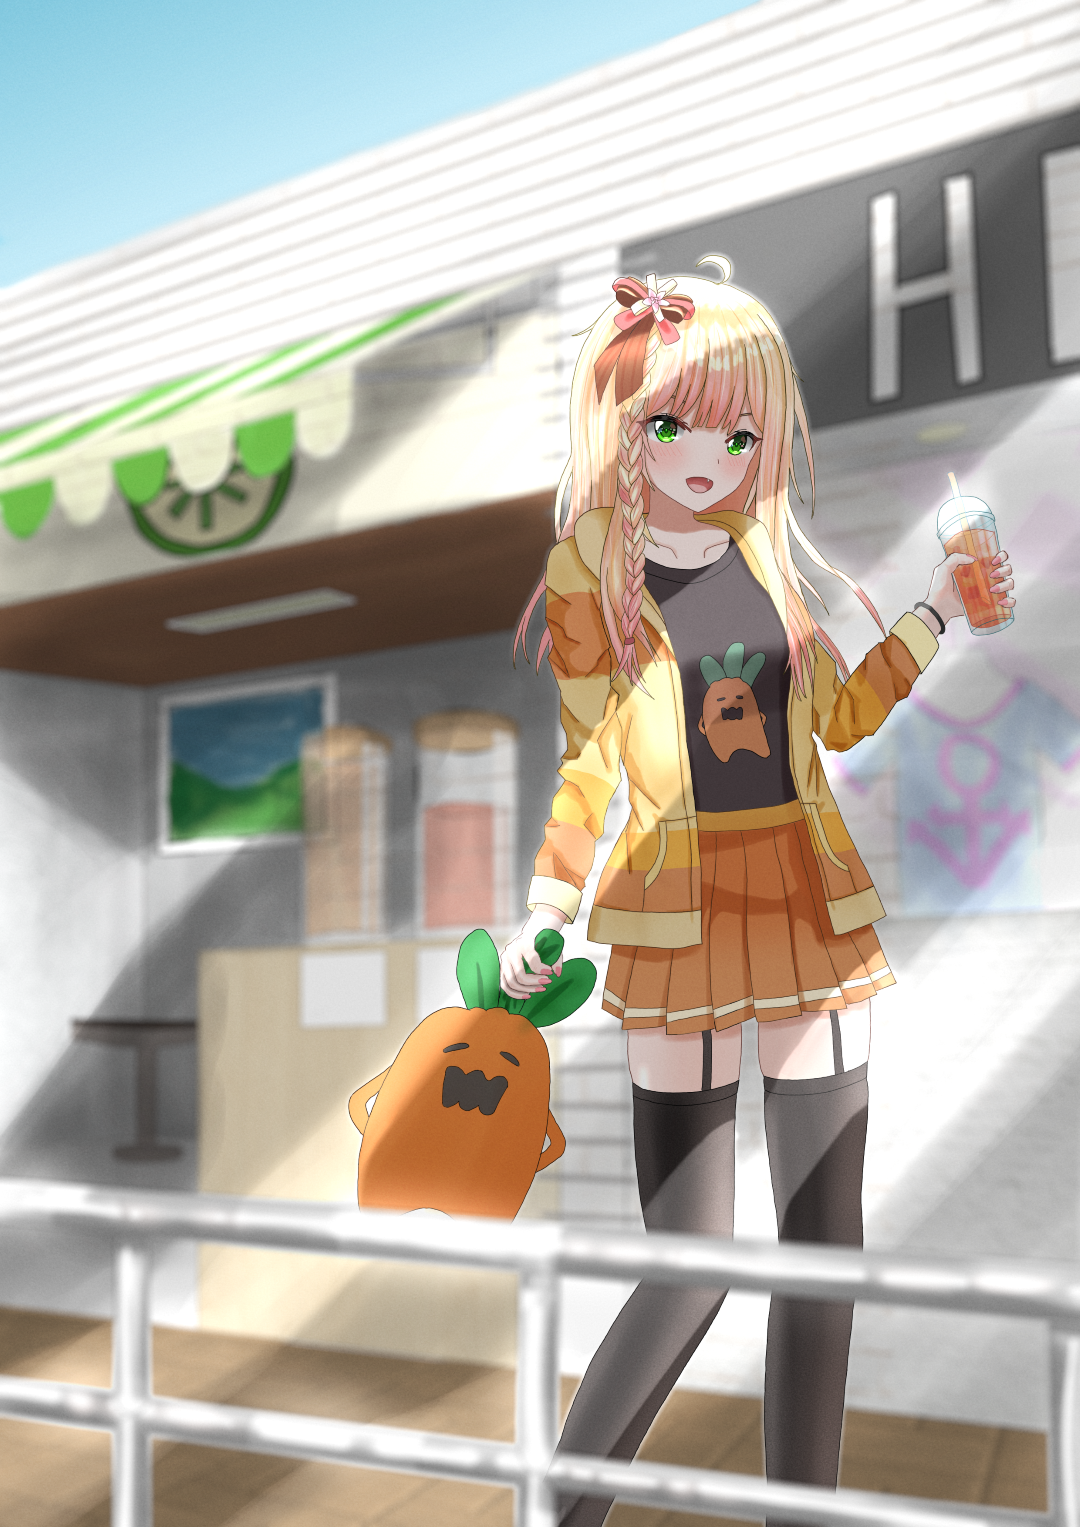
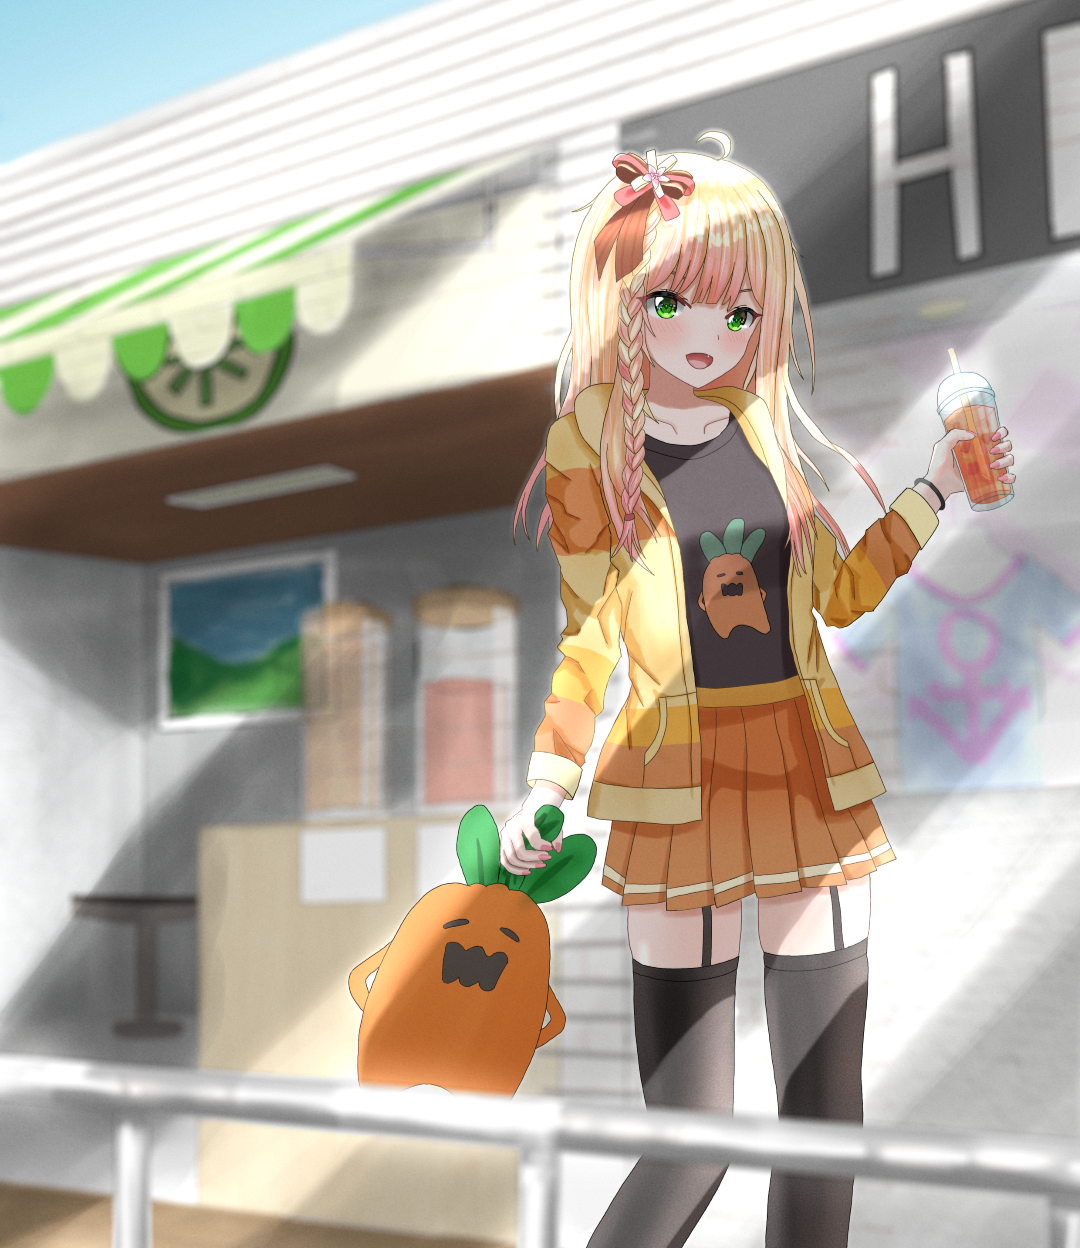
footer and commision

diff --git a/html/price.html b/html/price.html
@@ -117,10 +117,10 @@
                             data-pswp-height="600" 
                             target="_blank"><img src="../images/favicon.png" alt="Image 2"></a></div>
                         <div class="slide">
-                            <a href="../images/app_icon.png"
+                            <a href="../images/commission_example/d22.png"
                             data-pswp-width="600" 
                             data-pswp-height="600" 
-                            target="_blank"><img src="../images/app_icon.png" alt="Image 3"></a></div>
+                            target="_blank"><img src="../images/commission_example/d22.png" alt="Image 3"></a></div>
                     </div>
                     <button class="arrow arrow-right" onclick="showSlide('slider1', currentIndexes['slider1'] + 1)">&#10095;</button>
                 </div>
@@ -128,7 +128,7 @@
                     <div class="active-box" id="activeBoxSlider1"></div>
                     <img class="thumbnail active" src="../images/app_icon.png" alt="Thumbnail 1" onclick="currentSlide('slider1', 0)">
                     <img class="thumbnail" src="../images/favicon.png" alt="Thumbnail 2" onclick="currentSlide('slider1', 1)">
-                    <img class="thumbnail" src="../images/app_icon.png" alt="Thumbnail 3" onclick="currentSlide('slider1', 2)">
+                    <img class="thumbnail" src="../images/commission_example/d22.png" alt="Thumbnail 3" onclick="currentSlide('slider1', 2)">
                 </div>
                    
                  <div class="margin-bottom-24px"></div>
@@ -137,13 +137,16 @@
                     <!--<p class="margin-bottom-24px">Feature Not Yet Enabled</p>-->
                 </div>
                 <!--<img class="center" src="../images/favicon.png" height="200px" width="200px">-->
-                <div>
+                <div class="margin-bottom-24px">
                     <h3>Price</h3>
                     <div class="margin-bottom-24px"></div>
                     <ul>
                         <li><p class="margin-bottom-24px">HKD 150+</p></li>
-                        <li><p class="margin-bottom-24px">IDK</p></li>
                     </ul>
+                </div>
+                <div class="margin-bottom-72px"></div>
+                <div>
+                    <p class="margin-bottom-24px">*Can specify pose and emotions</p>
                 </div>
             </div>
             <div class="modal" id="modal">
@@ -175,23 +178,23 @@
                             target="_blank">
                             <img src="../images/commission_example/d07.png" alt="Image 5"></a></div>
                         <div class="slide">
-                            <a href="../images/Drawings_Thumbnail.jpg"
-                            data-pswp-width="1920" 
-                            data-pswp-height="1080" 
+                            <a href="../images/commission_example/d14.png"
+                            data-pswp-width="1080" 
+                            data-pswp-height="1248" 
                             target="_blank">
-                            <img src="../images/Drawings_Thumbnail.jpg" alt="Image 6"></a></div>
+                            <img src="../images/commission_example/d14.png" alt="Image 6"></a></div>
                     </div>
                     <button class="arrow arrow-right" onclick="showSlide('slider2', currentIndexes['slider2'] + 1)">&#10095;</button>
                 </div>
                 <div class="thumbnails">
                     <img class="thumbnail active" src="../images/Drawings_Thumbnail.jpg" alt="Thumbnail 4" onclick="currentSlide('slider2', 0)">
                     <img class="thumbnail" src="../images/commission_example/d07.png" alt="Thumbnail 5" onclick="currentSlide('slider2', 1)">
-                    <img class="thumbnail" src="../images/Drawings_Thumbnail.jpg" alt="Thumbnail 6" onclick="currentSlide('slider2', 2)">
+                    <img class="thumbnail" src="../images/commission_example/d14.png" alt="Thumbnail 6" onclick="currentSlide('slider2', 2)">
                 </div>
                 <div class="margin-bottom-24px"></div>
                 <div class="hero-wrapper-two">
                     <h2>Surprise Pack</h2>
-                    <!--<p class="margin-bottom-24px">Feature Not Yet Enabled</p>-->
+                    <p class="margin-bottom-24px" style="color: rgb(228, 90, 90);">Not available currently</p>
                 </div>
                 <div>
                     <h3>Price</h3>
@@ -247,8 +250,13 @@
                         <li><p class="margin-bottom-24px">Upper Body: HKD 250+</p></li>
                     </ul>
                 </div>
-                
+                <div class="margin-bottom-72px"></div>
+                <div>
+                    <p class="margin-bottom-24px">*can specify pose</p>
+                </div>
+
             </div>
+            
             <!--<img class="center" src="../images/favicon.png" height="200px" width="200px">-->
             
             <div class="margin-bottom-280px"></div>

diff --git a/footer.html b/footer.html
@@ -15,6 +15,7 @@
             <div class="col-sm-4 col-md-3 item">
                 <h3>Commission</h3>
                 <ul>
+                    <li><a href="/html/p-procedure.html">Procedure</a></li>
                     <li><a href="/html/price.html">Pricing</a></li>
                 </ul>
             </div>
@@ -22,12 +23,14 @@
                 <h3>Personal</h3>
                 <ul>
                     <li><a href="/html/about.html">About</a></li>
+                    <li><a href="/html/blogs_main.html">Blogs</a></li>
                 </ul>
             </div>
             <div class="col-sm-4 col-md-3 item">
                 <h3>Portfolio</h3>
                 <ul>
                     <li><a href="/html/drawing_main.html">Illustration</a></li>
+                    <li><a href="/html/game_main.html">Games</a></li>
                 </ul>
             </div>
             <div class="col-lg-3 item social"><a href="https://google.com"><i class="icon ion-social-facebook"></i></a><a href="#"><i class="icon ion-social-twitter"></i></a><a href="#"><i class="icon ion-social-snapchat"></i></a><a href="#"><i class="icon ion-social-instagram"></i></a>

diff --git a/css/style.css b/css/style.css
@@ -207,7 +207,7 @@ a:hover{
     margin-bottom: 72px;
 }
 .margin-bottom-280px{
-    margin-bottom: 280px;
+    margin-bottom: 200px;
 }
 .nav-button-wrapper{
     width:200px;
@@ -671,7 +671,7 @@ html.lenis {
 /*Entrance Animation (when scrolling)*/
 /* 1. Define the entrance animation */
 @keyframes fadeInBlock {
-  from { opacity: 0; transform: translateY(50px); filter: blur(2px); }
+  from { opacity: 0.2; transform: translateY(50px); filter: blur(2px); }
   to { opacity: 1; transform: translateY(0); filter: blur(0px);}
 }
 
